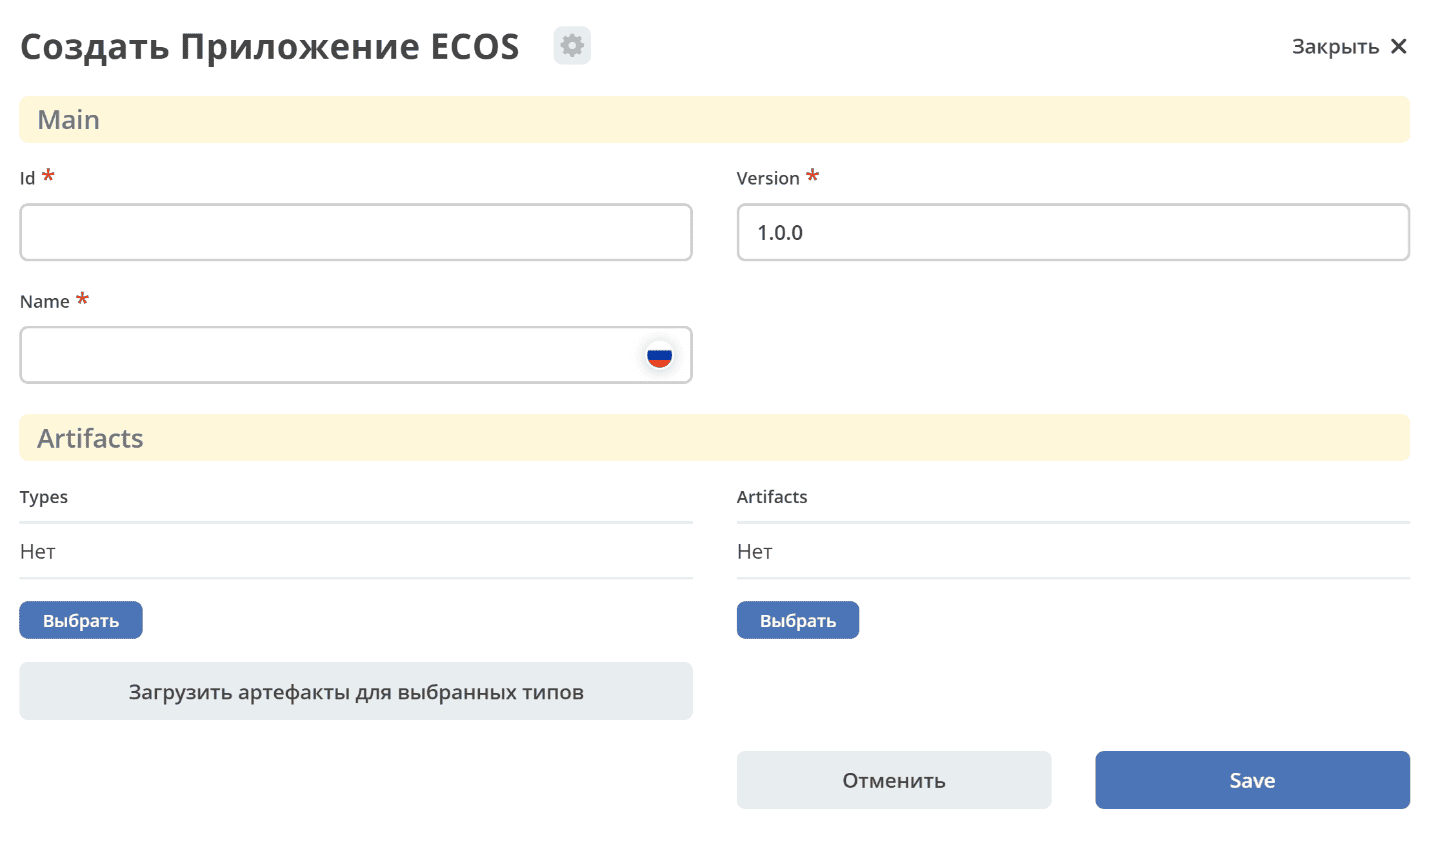
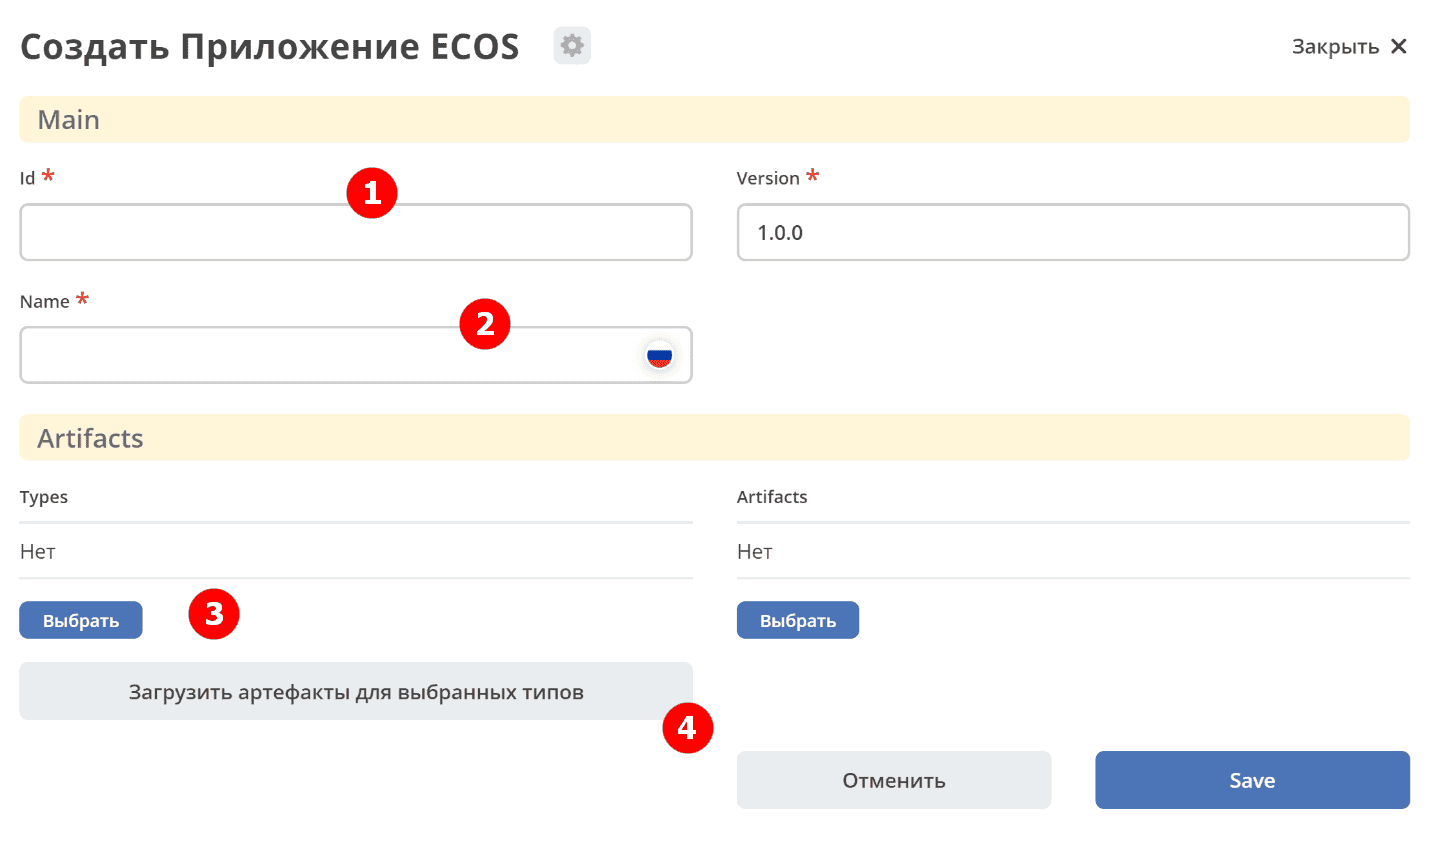
ECOSUI-2162

diff --git a/docs/settings_kb/interface/forms/form_builder.rst b/docs/settings_kb/interface/forms/form_builder.rst
@@ -65,7 +65,13 @@
         - имя компонента, как оно будет отражаться на форме.
       * - 2
         - **Имя свойства** 
-        - имя свойства в :ref:`типе данных<data_types_main>`
+        - | имя свойства в :ref:`типе данных<data_types_main>`
+          | При вводе имени свойства появляется выпадающий список атрибутов типа данных, для которого форма создается (при наличии частичного совпадения имен). Выбор осуществляется из списка.
+
+                 .. image:: _static/form_builder/tab_1_variants.png
+                      :width: 400
+                      :align: center
+
       * - 3
         - **Подсказка** 
         - подсказка, которая отображается при наведении курсора на знак вопроса возле поля, если необходимо. 
@@ -108,7 +114,7 @@
 1. **Данные**. Отвечает за автоматическое заполнение поля данными. В списках, есть возможность заполнить список статическими, или полученными из асинхронного запроса данными.
 
    .. image:: _static/form_builder/tab_3.png
-         :width: 400
+         :width: 600
          :align: center
 
 2. Валидация. Отвечает за проверку правильности заполнения поля. Поддерживает как простые проверки (проверки длины введенной строки или принятия конкретного значения), так и сложные.
@@ -120,7 +126,7 @@
 3. **API**. Хранит в себе ключ и атрибут для корректного сохранения данных. Необходимо заполнить следующие поля:
 
    .. image:: _static/form_builder/tab_5.png
-         :width: 400
+         :width: 600
          :align: center
 
  В поле **Ключ** ввести строку attribute, а в **Значение** ввести данные как в заголовке %prefix%_%localName%. Например: idocs:initiator
@@ -128,16 +134,16 @@
 6. **Отображение**. Отвечает за настройку отображения компонента. Поддерживает как простую логику, например, сопоставление значения поля и отображения при совпадении, так и сложную.
 
    .. image:: _static/form_builder/tab_6.png
-         :width: 400
+         :width: 600
          :align: center
 7. **Логика**. Пользовательская логика. Поддерживает автовычисления большого количества свойств компонента.
 
    .. image:: _static/form_builder/tab_7.png
-         :width: 400
+         :width: 600
          :align: center
 
 8. **Шаблоны элемента**. Отвечает за дополнительные атрибуты, которые могут быть добавлены в форму.
 
    .. image:: _static/form_builder/tab_8.png
-         :width: 400
+         :width: 600
          :align: center

diff --git a/docs/settings_kb/interface/forms/form_components/components/text field.rst b/docs/settings_kb/interface/forms/form_components/components/text field.rst
@@ -1,0 +1,52 @@
+.. _text_field_ecos:
+
+Text Field
+===========
+
+Однострочное текстовое поле.
+
+Во вкладке **Данные (Data)** появился чекбокс **Упреждающий ввод (Typeahead)**, активировав который, появляется возможность выбора способа формирования списка и текстовое поле для ввода соответствующего списка:
+
+ .. image:: _static/text_field/text_field_1.png
+       :width: 600
+       :align: center
+
+- **Custom** - вводим код в формате: 
+
+.. code-block::
+
+    values = ['one', ‘two’];
+
+- **Values** - инпут, в котором вводятсязначения и добавляются по Enter (используется компонент Tags):
+
+ .. image:: _static/text_field/text_field_2.png
+       :width: 400
+       :align: center
+
+- **Raw JSON** - в текстовое поле вводим данные в формате JSON-строки:
+
+.. code-block::
+
+    "[\n  \"one\",\n  \"two\",\n  \"three\",\n  4,\n  5,\n  \"six\"\n]"
+
+Для отображения ключей уже добавленных на форме компонентов, расширил базовый компонент форм, поле key. 
+Теперь, при добавлении на форму нового компонента ( или при редактировании), в ``instance.root.options._webform`` хранится ссылка на форму, из которой можно достать список добавленных компонентов, например:
+
+.. code-block::
+
+    const rootFormComponents = _.get(instance, 'root.options._webform.components') || [];
+
+    values = Object.keys(utils.flattenComponents(rootFormComponents));
+
+Для поддержки асинхронных запросов в типе источника **Custom** нужно переменной **values** присвоить промис, который должен вернуть массив строк
+
+.. code-block::
+
+    values = window.Citeck.Records.get('emodel/type@type').load('model.attributes[]{id}');
+
+
+Теперь, при добавлении на форму нового компонента, при вводе имени свойства, появляется выпадающий список (при наличии частичного совпадения имен). Это позволит понять, какие имена уже заняты, чтобы не привести к ошибке при создании или редактировании формы.
+
+ .. image:: _static/text_field/text_field_3.png
+       :width: 600
+       :align: center

diff --git a/docs/case_sample/application.rst b/docs/case_sample/application.rst
@@ -23,9 +23,11 @@
        :width: 600
        :align: center
 
-Указать **Id, Имя и версию**, выбрать **тип данных**. 
+Указать **Id (1), Имя (2)**, выбрать все созданные **типы данных** :ref:`для процесса "Согласование оффера"<types_offer>` 
 
-Для автоматической загрузки артефактов нажать **«Загрузить артефакты для выбранных типов»**. Полученный список артефактов можно дополнить, нажав **«Добавить»**.
+Для автоматической загрузки артефактов нажать **«Загрузить артефакты для выбранных типов» (4)**. 
+
+Полученный список артефактов можно дополнить, нажав **«Добавить»**.
 
  .. image:: _static/app/App_4.png
        :width: 600

diff --git a/docs/case_sample/offer.rst b/docs/case_sample/offer.rst
@@ -47,6 +47,8 @@
 
 Структура создания каждого отдельного компонента будет обязательно начинаться с подготовки типа, а затем в зависимости от бизнес-требований дополняться созданием журналов, форм и так далее.
 
+.. _types_offer:
+
 Типы данных
 ------------
 

diff --git a/docs/settings_kb/interface/forms/form_components/components_common.rst b/docs/settings_kb/interface/forms/form_components/components_common.rst
@@ -21,6 +21,8 @@ Text Field
 
 `См. подробное описание Text Field на Form.io <https://help.form.io/userguide/forms/form-components#text-field>`_ 
 
+:ref:`См. доработки компонента<text_field_ecos>` 
+
 :ref:`См. пример Text Field<sample_text_field_component>` 
 
 .. _Select_Journal_:

diff --git a/docs/settings_kb/interface/forms/form_components/components.rst b/docs/settings_kb/interface/forms/form_components/components.rst
@@ -4,6 +4,7 @@
 .. toctree::
     :maxdepth: 5
 
+    components/text field
     components/table form
     components/async data
     components/select journal
